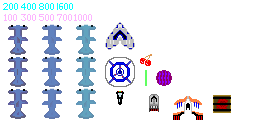
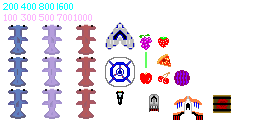
Added more fruits, refactored selection package a bit

Changed region(s): [[0.2812, 0.1875, 0.375, 0.9375], [0.1562, 0.1875, 0.25, 0.9375], [0.5312, 0.25, 0.75, 0.6875]]

diff --git a/core/src/me/retrodaredevil/game/trackshooter/render/selection/options/DropDownSingleOption.java b/core/src/me/retrodaredevil/game/trackshooter/render/selection/options/DropDownSingleOption.java
@@ -1,4 +1,4 @@
-package me.retrodaredevil.game.trackshooter.render.selection;
+package me.retrodaredevil.game.trackshooter.render.selection.options;
 
 import com.badlogic.gdx.scenes.scene2d.InputEvent;
 import com.badlogic.gdx.scenes.scene2d.ui.SelectBox;
@@ -13,6 +13,8 @@ import me.retrodaredevil.controller.options.ControlOption;
 import me.retrodaredevil.controller.options.OptionValue;
 import me.retrodaredevil.controller.options.RadioOption;
 import me.retrodaredevil.game.trackshooter.render.RenderObject;
+import me.retrodaredevil.game.trackshooter.render.selection.ContainerSingleOption;
+import me.retrodaredevil.game.trackshooter.render.selection.SingleOption;
 import me.retrodaredevil.game.trackshooter.save.OptionSaver;
 
 public class DropDownSingleOption extends ControlOptionSingleOption {
@@ -78,8 +80,8 @@ public class DropDownSingleOption extends ControlOptionSingleOption {
 	}
 
 	@Override
-	public void selectUpdate(float delta, JoystickPart selector, InputPart select, InputPart back, Collection<SelectAction> requestedActions) {
-		fireInputEvents(selectBox, InputEvent.Type.enter);
+	public void selectUpdate(float delta, JoystickPart selector, InputPart select, InputPart back, Collection<SingleOption.SelectAction> requestedActions) {
+		ContainerSingleOption.fireInputEvents(selectBox, InputEvent.Type.enter);
 		// The reason we have the use the 'isShown' variable, is that in a SelectBox, pressing escape
 		// (sometimes mapped to the back button) closes the drop down (IT'S FREAKING HARD CODED)
 		// and because of that, we think it's already down on the frame isPressed() for 'back' returns true.
@@ -97,8 +99,8 @@ public class DropDownSingleOption extends ControlOptionSingleOption {
 				hide();
 			}
 			if(select.isPressed()){
-				fireInputEvents(selectBox, InputEvent.Type.touchDown);
-				fireInputEvents(selectBox, InputEvent.Type.touchUp);
+				ContainerSingleOption.fireInputEvents(selectBox, InputEvent.Type.touchDown);
+				ContainerSingleOption.fireInputEvents(selectBox, InputEvent.Type.touchUp);
 				hide();
 			}
 		} else {
@@ -112,6 +114,6 @@ public class DropDownSingleOption extends ControlOptionSingleOption {
 	@Override
 	public void deselect() {
 		hide();
-		fireInputEvents(selectBox, InputEvent.Type.exit);
+		ContainerSingleOption.fireInputEvents(selectBox, InputEvent.Type.exit);
 	}
 }

diff --git a/core/src/me/retrodaredevil/game/trackshooter/GameScreen.java b/core/src/me/retrodaredevil/game/trackshooter/GameScreen.java
@@ -66,7 +66,7 @@ public class GameScreen extends ScreenAdapter {
 	private void doUpdate(float delta){
 		for(GameInput input : gameInputs){
 			if(input.getPauseButton().isPressed()){
-				paused = !paused; // TODO even when paused, the current time still increments
+				paused = !paused;
 				break;
 			}
 		}
@@ -76,7 +76,6 @@ public class GameScreen extends ScreenAdapter {
 			return;
 		}
 		world.update(delta, world);
-//		stage.getViewport().apply(true);
 
 
 		Level level = world.getLevel();
@@ -86,6 +85,10 @@ public class GameScreen extends ScreenAdapter {
 			Player player = it.next();
 			Score score = player.getScoreObject();
 
+			// TODO There's a rare bug where the player dies, lives goes to 0, then gets an extra...
+			// life from a previously shot bullet. Because of this, the player is removed before
+			// we have a chance to see if the player gets that extra life. We may fix this in the
+			// future or we may leave it the way it is because it might create more bugs with multiplayer.
 			if(score.getLives() > 0){
 				if(player.isRemoved() && mode == LevelMode.NORMAL){
 					level.setMode(LevelMode.RESET);
@@ -140,9 +143,6 @@ public class GameScreen extends ScreenAdapter {
 		InputFocuser inputFocuser = new InputFocuser(renderParts.getInputMultiplexer());
 		inputFocuser.addInputFocus(renderParts.getTouchpadRenderer());
 		inputFocuser.giveFocus(stage);
-
-
-
 	}
 
 	@Override
@@ -156,7 +156,6 @@ public class GameScreen extends ScreenAdapter {
 	public void dispose() {
 		world.disposeRenderComponent();
 		stage.dispose();
-
 	}
 	public boolean isGameCompletelyOver(){
 		return shouldExit;

diff --git a/core/src/me/retrodaredevil/game/trackshooter/render/parts/OptionMenuRenderComponent.java b/core/src/me/retrodaredevil/game/trackshooter/render/parts/OptionMenuRenderComponent.java
@@ -16,11 +16,11 @@ import me.retrodaredevil.controller.options.ControlOption;
 import me.retrodaredevil.controller.options.OptionValue;
 import me.retrodaredevil.game.input.GameInput;
 import me.retrodaredevil.game.trackshooter.render.RenderObject;
-import me.retrodaredevil.game.trackshooter.render.selection.CheckBoxSingleOption;
-import me.retrodaredevil.game.trackshooter.render.selection.DropDownSingleOption;
+import me.retrodaredevil.game.trackshooter.render.selection.options.CheckBoxSingleOption;
+import me.retrodaredevil.game.trackshooter.render.selection.options.DropDownSingleOption;
 import me.retrodaredevil.game.trackshooter.render.selection.SelectionMenuRenderComponent;
 import me.retrodaredevil.game.trackshooter.render.selection.SingleOption;
-import me.retrodaredevil.game.trackshooter.render.selection.SliderSingleOption;
+import me.retrodaredevil.game.trackshooter.render.selection.options.SliderSingleOption;
 import me.retrodaredevil.game.trackshooter.save.SaveObject;
 
 public class OptionMenuRenderComponent extends SelectionMenuRenderComponent {

diff --git a/core/src/me/retrodaredevil/game/trackshooter/level/functions/FruitFunction.java b/core/src/me/retrodaredevil/game/trackshooter/level/functions/FruitFunction.java
@@ -16,9 +16,20 @@ public class FruitFunction extends PowerupFunction {
 	protected PowerupEntity createPowerup(World world) {
 		int level = world.getLevel().getNumber();
 		Resources.Points points = Resources.Points.P100;
-		if(level > 2){
+		String name = "cherry";
+		if(level >= 15){
+			points = Resources.Points.P1000;
+			name = "pizza";
+		} else if (level >= 10){
+			points = Resources.Points.P700;
+			name = "grapes";
+		} else if (level >= 6){
+			points = Resources.Points.P500;
+			name = "strawberry";
+		} else if(level >= 3){
 			points = Resources.Points.P300;
+			name = "apple";
 		}
-		return Fruit.createFruit(points, SimplePowerup.getRandomTrackStarting(world), new Image(world.getMainSkin().getDrawable("cherry"))); // TODO change cherry to something else
+		return Fruit.createFruit(points, SimplePowerup.getRandomTrackStarting(world), new Image(world.getMainSkin().getDrawable(name)));
 	}
 }

diff --git a/core/src/me/retrodaredevil/game/trackshooter/render/selection/options/ControlOptionSingleOption.java b/core/src/me/retrodaredevil/game/trackshooter/render/selection/options/ControlOptionSingleOption.java
@@ -1,4 +1,4 @@
-package me.retrodaredevil.game.trackshooter.render.selection;
+package me.retrodaredevil.game.trackshooter.render.selection.options;
 
 import com.badlogic.gdx.Input;
 import com.badlogic.gdx.scenes.scene2d.Actor;
@@ -8,9 +8,10 @@ import com.badlogic.gdx.utils.Pools;
 
 import me.retrodaredevil.controller.options.ControlOption;
 import me.retrodaredevil.controller.options.OptionValue;
+import me.retrodaredevil.game.trackshooter.render.selection.ContainerSingleOption;
 import me.retrodaredevil.game.trackshooter.save.OptionSaver;
 
-public abstract class ControlOptionSingleOption extends ContainerSingleOption{
+public abstract class ControlOptionSingleOption extends ContainerSingleOption {
 
 	protected final ControlOption controlOption;
 	protected final OptionSaver optionSaver;

diff --git a/core/src/me/retrodaredevil/game/trackshooter/save/OptionSaver.java b/core/src/me/retrodaredevil/game/trackshooter/save/OptionSaver.java
@@ -9,6 +9,12 @@ import me.retrodaredevil.controller.options.ConfigurableControllerPart;
 import me.retrodaredevil.controller.options.ControlOption;
 import me.retrodaredevil.controller.options.OptionValue;
 
+/**
+ * TODO There are some bugs when saving and loading when there are multiple inputs in the same game...
+ * When these are loaded and saved, some options load from the same key on each input which stops different
+ * controllers from having different configurations. I intend to fix this bug in THIS class in the future.
+ * This of course, would require some refactoring to tell which player is which, etc.
+ */
 public final class OptionSaver {
 
 	private final Preferences optionPreferences;

diff --git a/core/src/me/retrodaredevil/game/input/implementations/GdxShakeButton.java b/core/src/me/retrodaredevil/game/input/implementations/GdxShakeButton.java
@@ -13,7 +13,6 @@ import me.retrodaredevil.controller.options.OptionValue;
  */
 public class GdxShakeButton extends AutoCachingInputPart {
 
-//	private int threshold;
 	private final OptionValue thresholdValue;
 
 	/**
@@ -32,10 +31,8 @@ public class GdxShakeButton extends AutoCachingInputPart {
 		float y = Gdx.input.getAccelerometerY();
 		float z = Gdx.input.getAccelerometerZ();
 		float magnitude = (float) Math.sqrt(x * x + y * y + z * z);
-//		double magnitude = sqrt(sqrt(x * x + y * y) + z * z);
 		magnitude -= 9.8f;
 		// magnitude may be less than 0
-//		System.out.println("magnitude: " + magnitude);
 		return (magnitude >= thresholdValue.getOptionValue()) ? 1 : 0;
 	}
 

diff --git a/core/src/me/retrodaredevil/game/input/implementations/KeyInputPart.java b/core/src/me/retrodaredevil/game/input/implementations/KeyInputPart.java
@@ -7,8 +7,8 @@ import me.retrodaredevil.controller.input.AutoCachingInputPart;
 import me.retrodaredevil.controller.input.AxisType;
 
 public class KeyInputPart extends AutoCachingInputPart {
-	private int code;
-	private boolean isButton;
+	private final int code;
+	private final boolean isButton;
 
 	public KeyInputPart(int code, boolean isButton) {
 		super(new AxisType(false, false));
@@ -29,6 +29,6 @@ public class KeyInputPart extends AutoCachingInputPart {
 
 	@Override
 	public boolean isConnected() {
-		return isButton || Gdx.input.isPeripheralAvailable(Input.Peripheral.HardwareKeyboard);
+		return true;
 	}
 }

diff --git a/core/src/me/retrodaredevil/game/input/implementations/GdxTiltJoystick.java b/core/src/me/retrodaredevil/game/input/implementations/GdxTiltJoystick.java
@@ -31,7 +31,7 @@ public class GdxTiltJoystick extends SimpleJoystickPart implements ConfigurableC
 	 *
 	 * @param maxDegrees The amount of the degrees you have to tilt for either axis to reach a magnitude of 1 in
 	 */
-	public GdxTiltJoystick(Integer maxDegrees) {
+	private GdxTiltJoystick(Integer maxDegrees) {
 		super(new JoystickType(true, true, true, true), false, false);
 		if(maxDegrees != null) {
 			maxDegreesOption.setOptionValue(maxDegrees);

diff --git a/core/src/me/retrodaredevil/game/trackshooter/render/selection/options/CheckBoxSingleOption.java b/core/src/me/retrodaredevil/game/trackshooter/render/selection/options/CheckBoxSingleOption.java
@@ -1,4 +1,4 @@
-package me.retrodaredevil.game.trackshooter.render.selection;
+package me.retrodaredevil.game.trackshooter.render.selection.options;
 
 import com.badlogic.gdx.scenes.scene2d.InputEvent;
 import com.badlogic.gdx.scenes.scene2d.ui.CheckBox;

diff --git a/core/src/me/retrodaredevil/game/trackshooter/render/selection/options/SliderSingleOption.java b/core/src/me/retrodaredevil/game/trackshooter/render/selection/options/SliderSingleOption.java
@@ -1,4 +1,4 @@
-package me.retrodaredevil.game.trackshooter.render.selection;
+package me.retrodaredevil.game.trackshooter.render.selection.options;
 
 import com.badlogic.gdx.scenes.scene2d.InputEvent;
 import com.badlogic.gdx.scenes.scene2d.ui.Label;
